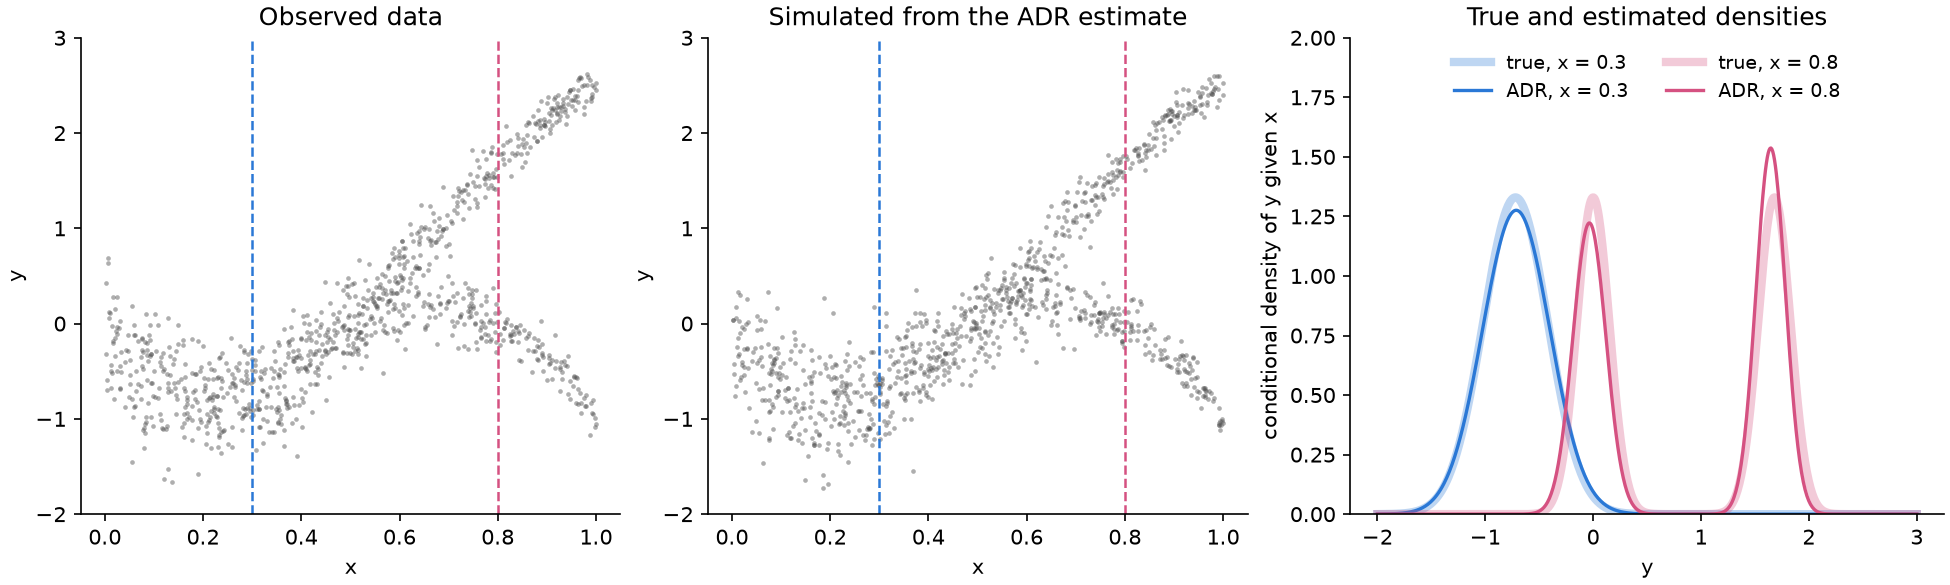
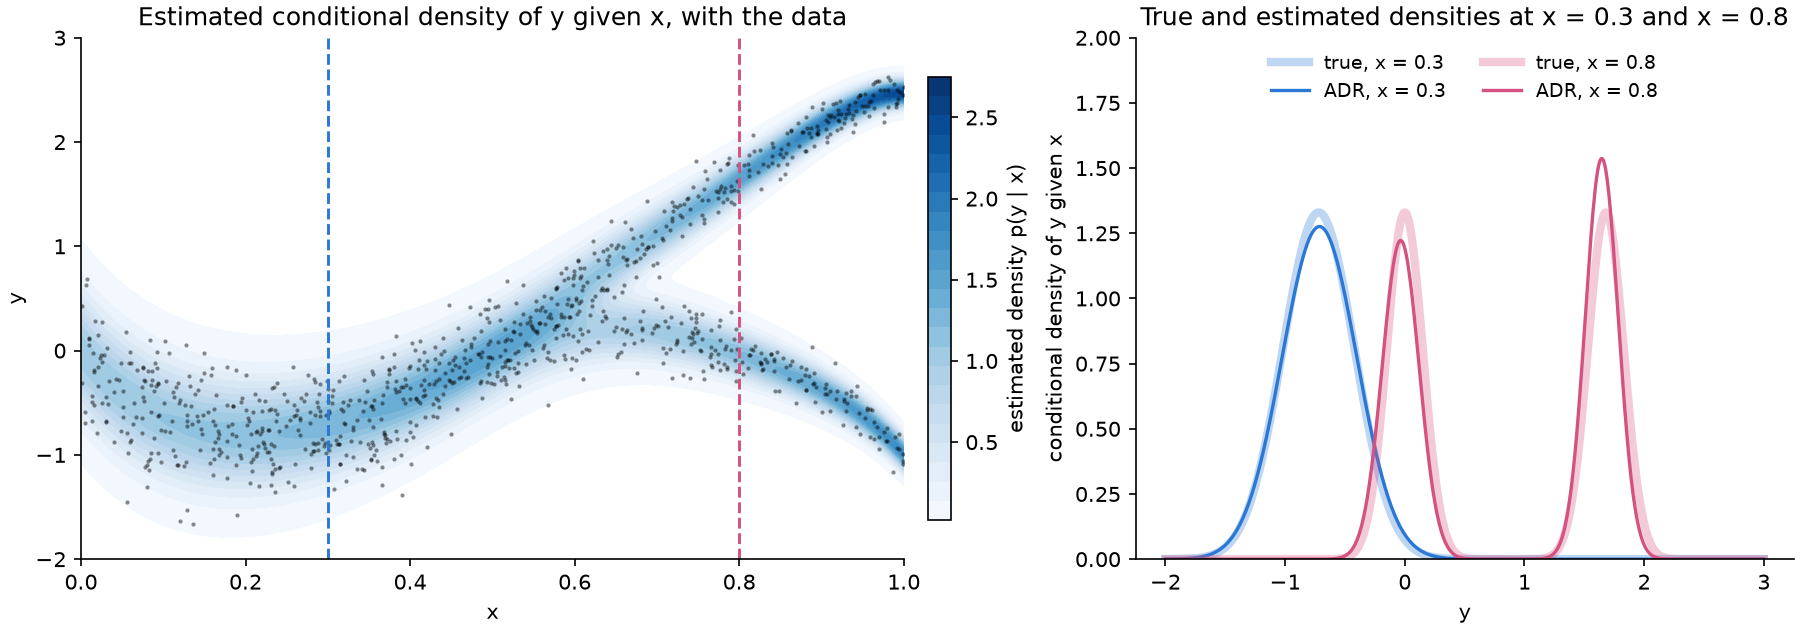
Example figure: estimated density with the data (smooth, with a density scale)

diff --git a/examples/plot_example.py b/examples/plot_example.py
@@ -31,28 +31,36 @@ ax.spines[["top", "right"]].set_visible(False)
 fig.savefig(ROOT / "docs" / "example_data.png", dpi=150)
 plt.close(fig)
 
-# the estimate against the truth: data, draws from the estimate at the same x, and densities
+# the estimate against the truth: estimated density with the data, and true and estimated
+# densities at two values of x
 plt.rcParams.update({"axes.spines.top": False, "axes.spines.right": False, "font.size": 10})
-fig, axes = plt.subplots(1, 3, figsize=(13, 3.9), layout="constrained",
-                         gridspec_kw={"width_ratios": [1, 1, 1.1]})
-rng = np.random.default_rng(1)
-sim = np.array([float(fit.distribution({"x": v}).sample(rng, 1)[0]) for v in df.x])
+fig, axes = plt.subplots(1, 2, figsize=(12, 4.2), layout="constrained",
+                         gridspec_kw={"width_ratios": [1.25, 1]})
+gx = np.linspace(0, 1, 300)
+gy = np.linspace(-2, 3, 400)
+dens = np.array([np.exp(np.asarray(fit.distribution({"x": g}).logpdf(gy))) for g in gx])
+ax = axes[0]
+top = np.ceil(dens.max() * 4) / 4
+cf = ax.contourf(gx, gy, dens.T, levels=np.linspace(0.02, top, 24), cmap="Blues")
+for c in cf.collections if hasattr(cf, "collections") else []:
+    c.set_edgecolor("face")
+ax.scatter(df.x, df.y, s=4, color="black", alpha=.45, linewidths=0, label="data")
 cols = {0.3: "#2a78d6", 0.8: "#d55181"}
-for ax, yv, title in zip(axes[:2], (df.y, sim), ("Observed data", "Simulated from the ADR estimate")):
-    ax.scatter(df.x, yv, s=5, color="0.3", alpha=.45, linewidths=0)
-    for x0, c in cols.items():
-        ax.axvline(x0, color=c, ls="--", lw=1.2)
-    ax.set(xlabel="x", ylabel="y", title=title, ylim=(-2, 3))
-axes[1].sharey(axes[0])
+for x0, c in cols.items():
+    ax.axvline(x0, color=c, ls="--", lw=1.4)
+ax.set(xlabel="x", ylabel="y", title="Estimated conditional density of y given x, with the data",
+       xlim=(0, 1), ylim=(-2, 3))
+cb = fig.colorbar(cf, ax=ax, shrink=.85, pad=.01)
+cb.set_label("estimated density p(y | x)")
+cb.set_ticks(np.arange(0.5, top + 1e-9, 0.5))
 yy = np.linspace(-2, 3, 600)
 for x0, c in cols.items():
-    axes[2].plot(yy, true_density(yy, x0), color=c, lw=4, alpha=.3, label=f"true, x = {x0}")
-    axes[2].plot(yy, np.exp(fit.distribution({"x": x0}).logpdf(yy)), color=c, lw=1.6,
+    axes[1].plot(yy, true_density(yy, x0), color=c, lw=4, alpha=.3, label=f"true, x = {x0}")
+    axes[1].plot(yy, np.exp(fit.distribution({"x": x0}).logpdf(yy)), color=c, lw=1.6,
                  label=f"ADR, x = {x0}")
-axes[2].set(xlabel="y", ylabel="conditional density of y given x",
-            title="True and estimated densities")
-axes[2].set_ylim(0, 2.0)
-axes[2].legend(frameon=False, fontsize=9, ncol=2, loc="upper center")
+axes[1].set(xlabel="y", ylabel="conditional density of y given x", ylim=(0, 2.0),
+            title="True and estimated densities at x = 0.3 and x = 0.8")
+axes[1].legend(frameon=False, fontsize=9, ncol=2, loc="upper center")
 fig.savefig(ROOT / "docs" / "example_fit.png", dpi=150)
 plt.close(fig)
 print("wrote docs/example_data.png and docs/example_fit.png")

diff --git a/README.md b/README.md
@@ -106,10 +106,10 @@ On the 200 held-out rows:
 | normal, no covariates | 1.380 |
 
 and the central 50% and 90% intervals cover 49.5% and 89.0% of the held-out responses. Since the
-data are simulated, the estimate can also be compared with the truth. Responses simulated from
-the estimate, one at each observed x (center), look like the observed data (left); and at
-x = 0.3, where the law has one mode, and at x = 0.8, where it has two (dashed lines), the
-estimated densities are close to the true ones (right).
+data are simulated, the estimate can also be compared with the truth. The estimated conditional
+density (left, darker where more probable, with the data on top) follows the trunk and the two
+branches; at x = 0.3, where the law has one mode, and at x = 0.8, where it has two (dashed
+lines), the estimated densities are close to the true ones (right).
 
 ![Estimated and true conditional densities](docs/example_fit.png)
 
